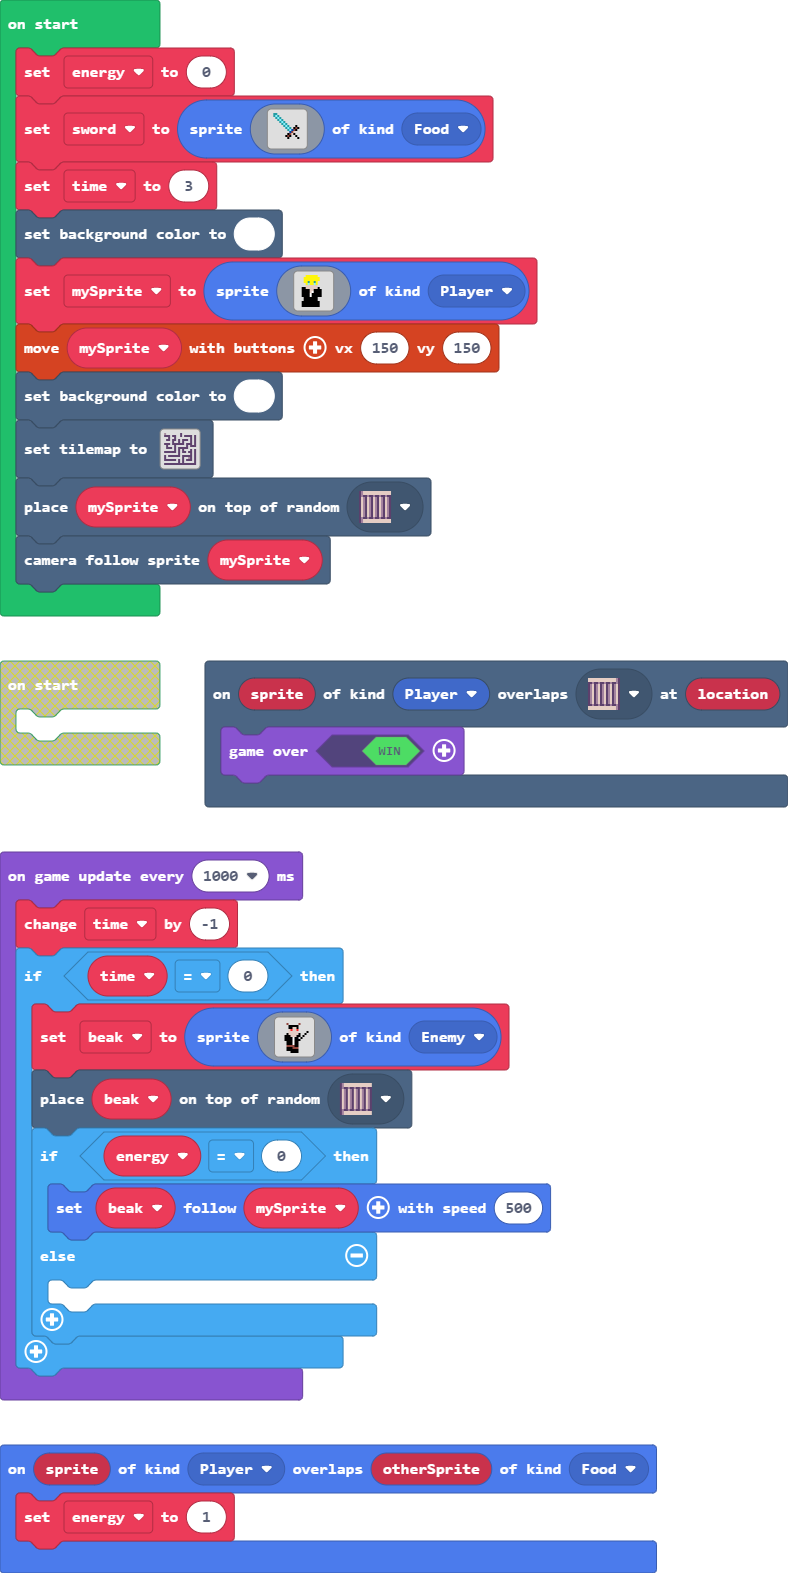
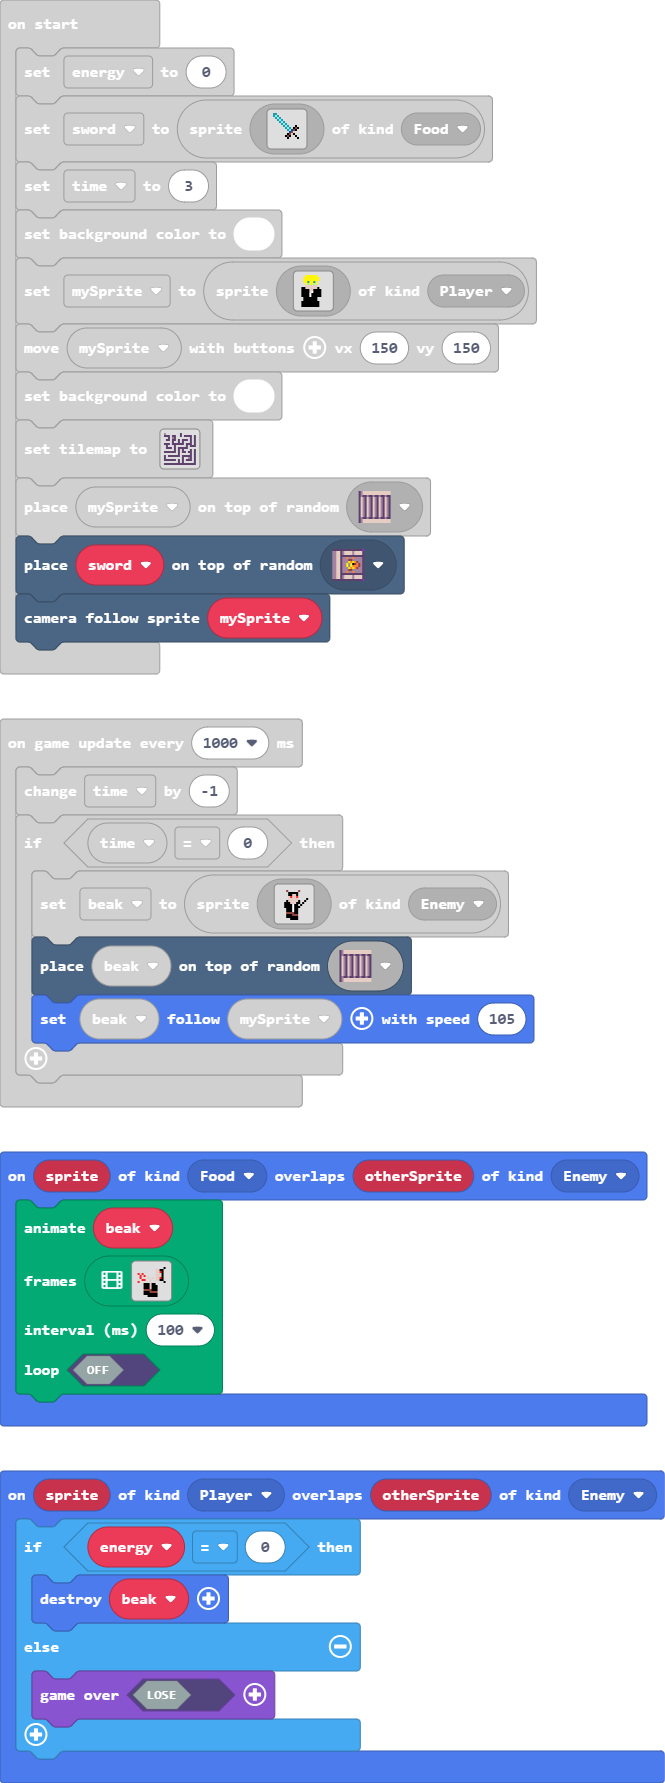
Update main.blocks, main.ts, tilemap.g.jres, tilemap.g.ts, images.g.jres, images.g.ts

diff --git a/images.g.ts b/images.g.ts
@@ -57,67 +57,30 @@ namespace myImages {
 . . . . . . . . . . . . . . . . 
 . . . . . . . . . . . . . . . . 
 `;
-            case "image4":return img`
-. 6 6 . . . . . . . . . . . . . 
-. 6 9 6 . . . . . . . . . . . . 
-. . 6 9 6 . . . . . . . . . . . 
-. . . 6 9 6 . . . . . . . . . . 
-. . . . 6 9 6 . . . . . . . . . 
-. . . . . 6 9 6 . . . . . . . . 
-. . . . . . 6 9 6 . . . f . . . 
-. . . . . . . 6 9 6 . f e f . . 
-. . . . . . . . 6 9 8 e f . . . 
-. . . . . . . . . 8 e d . . . . 
-. . . . . . . . f e d f . . . . 
-. . . . . . . f e f . . f . . . 
-. . . . . . . . f . . . . f . . 
-. . . . . . . . . . . . . . . . 
-. . . . . . . . . . . . . . . . 
-. . . . . . . . . . . . . . . . 
-`;
-            case "image5":return img`
-. . . . . . . . . . . . . . . . 
-. . . . e . . . . . e . . . . . 
-. . . . . f f f f f . . . . . . 
-. . . . . f f d d f . . . . . . 
-. . . . . d 2 d d 2 . . . . . . 
-. . . . . d d d d d . . . . f . 
-. . . . f d d d d d f . . f . . 
-. . . f f f d d d f f . f . . . 
-. . . f f f f 1 f f . f . . . . 
-. . . f f f f 1 f f f . . . . . 
-. . . . f f f 1 f f . . . . . . 
-. . . . f f f 1 f f . . . . . . 
-. . . . e e e e f f . . . . . . 
-. . . . f f f e e e . . . . . . 
-. . . . f f f f f f . . . . . . 
-. . . . . . f f f f . . . . . . 
-`;
-            case "image6":return img`
-. . . . 5 5 5 5 5 5 . . . . . . 
-. . . 5 5 5 5 5 5 5 5 . . . . . 
-. . . 5 5 5 5 5 5 5 5 . . . . . 
-. . . 5 5 6 5 5 6 5 . . . . . . 
-. . . . 5 9 5 5 9 5 . . . . . . 
-. . . . d d d d d d . . . . . . 
-. . f f d d d d d d f . . . . . 
-. . f f f f d d f f f f . . . . 
-. . f f f f d 1 f f f f . . . . 
-. . f f f f 1 f f f f f . . . . 
-. . f f f f 1 f f f f f . . . . 
-. . . f f f f f f f . . . . . . 
-. . . f f f f f f f . . . . . . 
-. . f f f f f f f f f . . . . . 
-. . f f f f f f f f f . . . . . 
-. . f f f f f f f f f . . . . . 
-`;
         }
         return null;
     })
 
     helpers._registerFactory("animation", function(name: string) {
         switch(helpers.stringTrim(name)) {
-
+            case "anim1":return [img`
+. . . . . . . . . . . . . . . . 
+. . . . . . . . . . . . . . f . 
+. . . . . . . . . . d d f f . . 
+. . . . . . . . . . d d 2 f . . 
+. 2 . 2 . . . . . . d d d f . . 
+. . 2 . 2 . . . . . d d d f . . 
+. . 2 . . . d . d . d d 2 f . . 
+. . . 2 2 . . d . . d d f f . . 
+. 2 . . . . . d . . . . . . f . 
+. . . . f f f d f f . . . . . . 
+. . . . f f f d f f f . . . . . 
+. . . . f f f d f f f . . . . . 
+. . . . e e e e f f f . . . . . 
+. . . . f f f e e e e . . . . . 
+. . . . f f f f f f f . . . . . 
+. . . . . . f f f f f . . . . . 
+`];
         }
         return null;
     })

diff --git a/main.ts b/main.ts
@@ -1,8 +1,40 @@
 scene.onOverlapTile(SpriteKind.Player, sprites.dungeon.stairWest, function (sprite, location) {
     game.over(true)
 })
+sprites.onOverlap(SpriteKind.Food, SpriteKind.Enemy, function (sprite, otherSprite) {
+    animation.runImageAnimation(
+    beak,
+    [img`
+        . . . . . . . . . . . . . . . . 
+        . . . . . . . . . . . . . . f . 
+        . . . . . . . . . . d d f f . . 
+        . . . . . . . . . . d d 2 f . . 
+        . 2 . 2 . . . . . . d d d f . . 
+        . . 2 . 2 . . . . . d d d f . . 
+        . . 2 . . . d . d . d d 2 f . . 
+        . . . 2 2 . . d . . d d f f . . 
+        . 2 . . . . . d . . . . . . f . 
+        . . . . f f f d f f . . . . . . 
+        . . . . f f f d f f f . . . . . 
+        . . . . f f f d f f f . . . . . 
+        . . . . e e e e f f f . . . . . 
+        . . . . f f f e e e e . . . . . 
+        . . . . f f f f f f f . . . . . 
+        . . . . . . f f f f f . . . . . 
+        `],
+    100,
+    false
+    )
+})
 sprites.onOverlap(SpriteKind.Player, SpriteKind.Food, function (sprite, otherSprite) {
     energy = 1
+})
+sprites.onOverlap(SpriteKind.Player, SpriteKind.Enemy, function (sprite, otherSprite) {
+    if (energy == 0) {
+        beak.destroy()
+    } else {
+        game.over(false)
+    }
 })
 let beak: Sprite = null
 let energy = 0
@@ -49,6 +81,7 @@ controller.moveSprite(mySprite, 150, 150)
 scene.setBackgroundColor(1)
 tiles.setTilemap(tilemap`level1`)
 tiles.placeOnRandomTile(mySprite, sprites.dungeon.stairEast)
+tiles.placeOnRandomTile(sword, sprites.dungeon.doorLockedWest)
 scene.cameraFollowSprite(mySprite)
 game.onUpdateInterval(1000, function () {
     time += -1
@@ -72,10 +105,6 @@ game.onUpdateInterval(1000, function () {
             . . . . . . f f f f . . . . . . 
             `, SpriteKind.Enemy)
         tiles.placeOnRandomTile(beak, sprites.dungeon.stairEast)
-        if (energy == 0) {
-            beak.follow(mySprite, 500)
-        } else {
-        	
-        }
+        beak.follow(mySprite, 105)
     }
 })

diff --git a/tilemap.g.ts b/tilemap.g.ts
@@ -6,7 +6,7 @@ namespace myTiles {
     helpers._registerFactory("tilemap", function(name: string) {
         switch(helpers.stringTrim(name)) {
             case "level1":
-            case "level1":return tiles.createTilemap(hex`1000100003000000000000000100000000000000010101000101000001000101010100010000010000010000000000000001000100010100010100010001010100010001000000000100000100010000000100010101010001010101010100010101000100010000000100000000000100010101000101010001000101010101000000000000000000010001000100000001000101010104010100010001010001010001000000000000000100000000000100010100010101010101000101010101000101000000000000000001000002010001010101010101000100010001010100010000000000000001000100000000000101010101010101010101010101010101`, img`
+            case "level1":return tiles.createTilemap(hex`1000100003000000000000000100000000000000010101000101000001000101010100010000010005010000000000000001000100010100010100010001010100010001000000000100000100010000000100010101010001010101010100010101000100010000000100000000000100010101000101010001000101010101000000000000000000010001000100000001000101010104010100010001010001010001000000000000000100000000000100010100010101010101000101010101000101000000000000000001000002010001010101010101000100010001010100010000000000000001000100000000000101010101010101010101010101010101`, img`
 . . . . . . . . 2 . . . . . . . 
 2 2 2 . 2 2 . . 2 . 2 2 2 2 . 2 
 . . 2 . . 2 . . . . . . . 2 . 2 
@@ -23,7 +23,7 @@ namespace myTiles {
 2 2 2 2 2 2 . 2 . 2 . 2 2 2 . 2 
 . . . . . . . 2 . 2 . . . . . 2 
 2 2 2 2 2 2 2 2 2 2 2 2 2 2 2 2 
-`, [myTiles.transparency16,sprites.dungeon.darkGroundNorthWest1,sprites.dungeon.stairWest,sprites.dungeon.stairEast,sprites.dungeon.darkGroundNorthWest0], TileScale.Sixteen);
+`, [myTiles.transparency16,sprites.dungeon.darkGroundNorthWest1,sprites.dungeon.stairWest,sprites.dungeon.stairEast,sprites.dungeon.darkGroundNorthWest0,sprites.dungeon.doorLockedWest], TileScale.Sixteen);
         }
         return null;
     })
